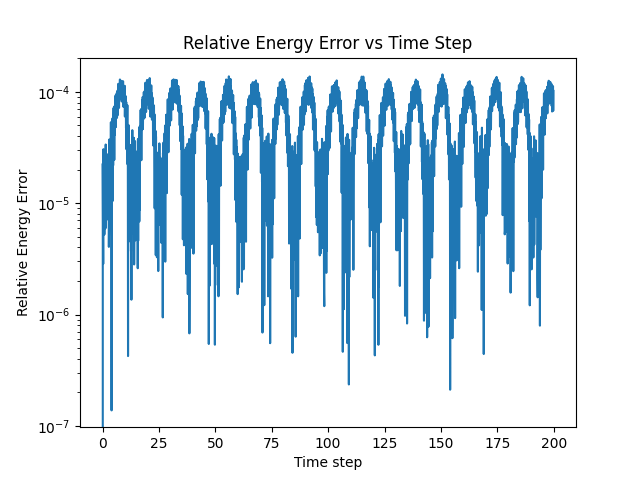
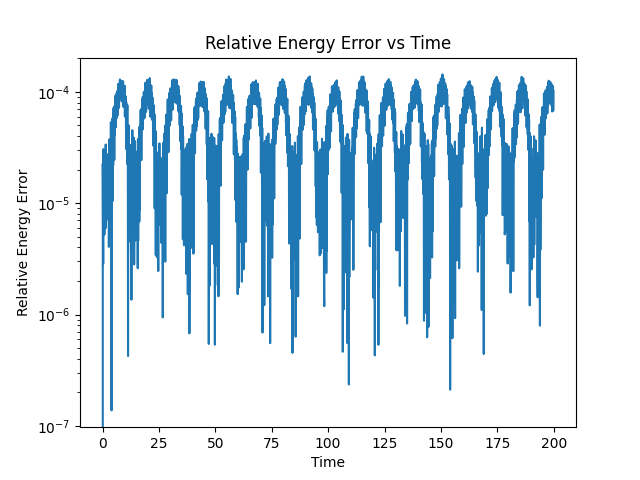
Update docs and small change to 5 steps to N-body simulation

Changed region(s): [[0.2812, 0.0625, 0.75, 0.125], [0.4688, 0.9375, 0.5625, 1.0]]

diff --git a/5_steps_to_n_body_simulation/python/step4.py b/5_steps_to_n_body_simulation/python/step4.py
@@ -4,6 +4,7 @@ import numpy as np
 
 import common
 
+INTEGRATOR = common.leapfrog
 INITIAL_CONDITION = "solar_system"
 
 # Default units is AU, days, and M_sun
@@ -37,7 +38,7 @@ def main() -> None:
     next_output_time = output_count * OUTPUT_INTERVAL
     start = timeit.default_timer()
     for i in range(NUM_STEPS):
-        common.leapfrog(a, system, DT)
+        INTEGRATOR(a, system, DT)
 
         current_time = i * DT
         if current_time >= next_output_time:

diff --git a/5_steps_to_n_body_simulation/python/common.py b/5_steps_to_n_body_simulation/python/common.py
@@ -645,9 +645,9 @@ def plot_rel_energy_error(rel_energy_error: np.ndarray, sol_t: np.ndarray) -> No
     plt.figure()
     plt.plot(sol_t, rel_energy_error)
     plt.yscale("log")
-    plt.xlabel("Time step")
+    plt.xlabel("Time")
     plt.ylabel("Relative Energy Error")
-    plt.title("Relative Energy Error vs Time Step")
+    plt.title("Relative Energy Error vs Time")
     plt.show()
 
 

diff --git a/5_steps_to_n_body_simulation/extra.md b/5_steps_to_n_body_simulation/extra.md
@@ -222,8 +222,13 @@ You can install `PIL` using
 pip install pillow
 ```
 
-The code is given below. The logic is simple: we open the first frame and append the rest of the frames to it. It is done by using a generator function. After the
-animation is done, we delete all frames by using `Path.unlink()`.
+The code is given below. The logic is simple: we open the first frame and append the rest of 
+the frames to it. After the animation is done, we delete all frames by using `Path.unlink()`.
+
+!!! Tip "Generator function"
+    We used a generator function `frames_generator`. If you use a list instead,
+    you may run out of memory very quickly.
+
 ```python title="extra.py"
     print("Combining frames to gif...")
 
@@ -250,7 +255,7 @@ animation is done, we delete all frames by using `Path.unlink()`.
 
 You should see the animation:
 
-<iframe width="560" height="315" src="https://www.youtube.com/embed/8y9CubaVGLk?si=G1XDDJ8SgQ9qK4OS" title="YouTube video player" frameborder="0" allow="accelerometer; autoplay; clipboard-write; encrypted-media; gyroscope; picture-in-picture; web-share" referrerpolicy="strict-origin-when-cross-origin" allowfullscreen></iframe>
+<iframe width="560" height="315" src="https://www.youtube.com/embed/Jqjbyi8ZXvk?si=OolUY32zeqB80Tu3" title="YouTube video player" frameborder="0" allow="accelerometer; autoplay; clipboard-write; encrypted-media; gyroscope; picture-in-picture; web-share" referrerpolicy="strict-origin-when-cross-origin" allowfullscreen></iframe>
 
 ## Conclusion
 

diff --git a/docs/index.md b/docs/index.md
@@ -1,4 +1,14 @@
-# grav_sim
+# Index
+
+* [Home](index.md)
+* [Getting Started](getting_started/)
+* [Documentations](documentations/)
+* [Examples](../examples/)
+* [5 Steps to N-body simulation](../5_steps_to_n_body_simulation/)
+
+---
+
+## grav_sim
 
 N-body gravity simulation library with C and Python API
 
@@ -33,15 +43,15 @@ Homepage: https://alvinng4.github.io/grav_sim/5_steps_to_n_body_simulation/
 - [Extra: Plotting and animation](5_steps_to_n_body_simulation/extra.md)
 - [Conclusion and Final Project](5_steps_to_n_body_simulation/conclusion.md)
 
-<img src="./examples/media/solar_plus_3d.png" alt="Image" width="300">
-<img src="./examples/media/rel_energy.png" alt="Image" width="300">
+<img src="../examples/media/solar_plus_3d.png" alt="Image" width="300">
+<img src="../examples/media/rel_energy.png" alt="Image" width="300">
 
 ## Sample projects
 
 ### Evolving the solar system for 1 million years
 
-<img src="./examples/media/eccentricity.png" alt="Image" width="300">
-<img src="./examples/media/inclination.png" alt="Image" width="300">
+<img src="../examples/media/eccentricity.png" alt="Image" width="300">
+<img src="../examples/media/inclination.png" alt="Image" width="300">
 
 ### Asteroid belt animation
 

diff --git a/docs/host_docs.md b/docs/host_docs.md
@@ -1,0 +1,10 @@
+To host the docs locally, first install the libraries:
+```
+pip install mkdocs-material mkdocs-bibtex mkdocs-jupyter mkdocs-same-dir "mkdocstrings[python]"
+```
+
+Then, run the following command to start the server:
+```
+cd ..           # Go to the root directory
+mkdocs serve
+```
